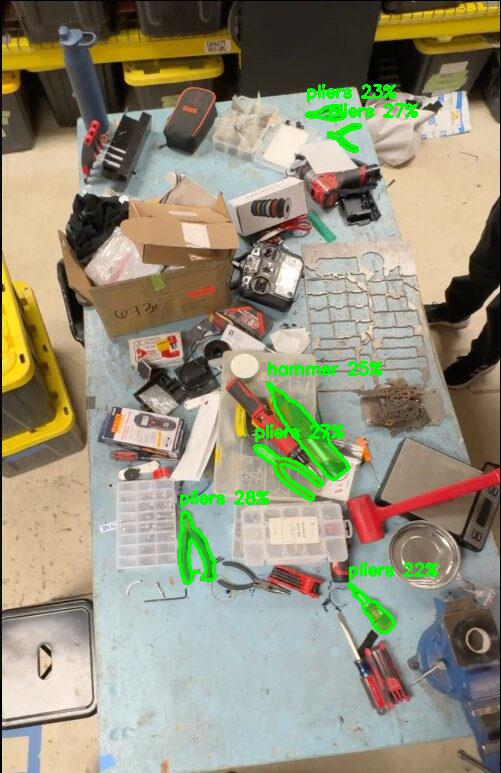
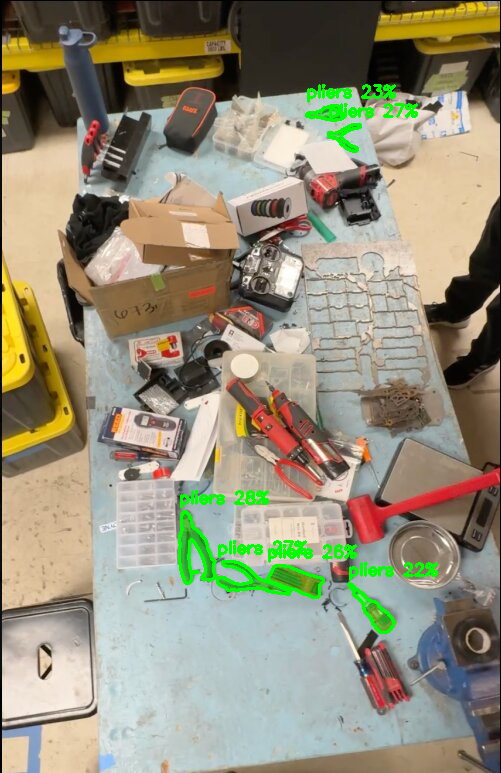
Voice-agent

Changed region(s): [[0.509, 0.4657, 0.7784, 0.652], [0.4192, 0.6831, 0.7186, 0.7762]]

diff --git a/voice_agent.py b/voice_agent.py
@@ -1,0 +1,250 @@
+import io
+import base64
+import socket
+import struct
+import numpy as np
+import sounddevice as sd
+import whisper
+import torch
+import cv2
+import modal
+from PIL import Image
+
+# ---------------------------------------------------------------------------
+# CONFIG — edit these to match your setup
+# ---------------------------------------------------------------------------
+
+TOOLS = [
+    "hammer", "wrench", "pliers", "screwdriver", "drill",
+    "saw", "chisel", "clamp", "tape measure", "level",
+]
+
+SAMPLE_RATE      = 16000   # Whisper expects 16kHz
+CHUNK_SAMPLES    = 512     # silero-vad minimum required chunk size at 16kHz
+
+SPEECH_THRESHOLD  = 0.65   # raised: reduces false triggers from background noise
+SILENCE_CHUNKS    = 20     # consecutive silent chunks before utterance ends (~600ms)
+MIN_SPEECH_CHUNKS = 25     # raised: require ~0.8s of speech before transcribing
+MAX_SPEECH_SEC    = 8      # hard cap — cuts runaway recordings
+
+PI_HOST = "192.168.50.232"
+PI_PORT = 9999
+
+# Set to a local image path to test without Pi/webcam (e.g. "test.jpg")
+# Set to None to use live camera
+TEST_IMAGE_PATH = "test.jpg"
+
+WHISPER_MODEL = "base"     # tiny / base / small — trade speed for accuracy
+
+DISPLAY_MS = 5000          # how long to show result image (ms)
+
+
+# ---------------------------------------------------------------------------
+# 1. Load models (called once at startup)
+# ---------------------------------------------------------------------------
+
+def load_models():
+    print("[startup] Loading silero-VAD...")
+    vad_model, _ = torch.hub.load(
+        repo_or_dir="snakers4/silero-vad",
+        model="silero_vad",
+        force_reload=False,
+    )
+    vad_model.eval()
+
+    print(f"[startup] Loading Whisper {WHISPER_MODEL}...")
+    whisper_model = whisper.load_model(WHISPER_MODEL)
+
+    print("[startup] Models ready. Listening...\n")
+    return vad_model, whisper_model
+
+
+# ---------------------------------------------------------------------------
+# 2. Listen — blocks until a complete utterance is captured
+# ---------------------------------------------------------------------------
+
+def listen_for_speech(vad_model, stream) -> np.ndarray:
+    """
+    Runs silero-VAD on mic chunks from an already-open stream.
+    Returns a float32 numpy array at 16kHz once the worker
+    stops speaking (SILENCE_CHUNKS of consecutive silence).
+    """
+    speech_buffer = []
+    speech_chunks  = 0
+    silence_chunks = 0
+    in_speech      = False
+
+    while True:
+        chunk, _ = stream.read(CHUNK_SAMPLES)
+        chunk_1d  = chunk[:, 0]                  # (512,) float32
+
+        chunk_tensor = torch.from_numpy(chunk_1d).unsqueeze(0)  # (1, 512)
+        with torch.no_grad():
+            confidence = vad_model(chunk_tensor, SAMPLE_RATE).item()
+
+        if confidence >= SPEECH_THRESHOLD:
+            in_speech      = True
+            silence_chunks = 0
+            speech_chunks += 1
+            speech_buffer.append(chunk_1d)
+
+            # Hard cap
+            if speech_chunks >= MAX_SPEECH_SEC * SAMPLE_RATE / CHUNK_SAMPLES:
+                break
+
+        elif in_speech:
+            silence_chunks += 1
+            speech_buffer.append(chunk_1d)   # include trailing silence for Whisper
+
+            if silence_chunks >= SILENCE_CHUNKS:
+                break                         # utterance ended
+
+    if speech_chunks < MIN_SPEECH_CHUNKS:
+        return None                               # too short — noise, not speech
+
+    return np.concatenate(speech_buffer)          # flat float32 array
+
+
+# ---------------------------------------------------------------------------
+# 3. Transcribe with Whisper
+# ---------------------------------------------------------------------------
+
+def transcribe(whisper_model, audio_buf: np.ndarray) -> str:
+    result = whisper_model.transcribe(
+        audio_buf,
+        fp16=False,
+        language="en",                          # stops random-language hallucinations
+        initial_prompt="where is my hammer, where is my wrench, where is my drill, find the screwdriver, locate the pliers",
+    )
+    return result["text"].strip().lower()
+
+
+# ---------------------------------------------------------------------------
+# 4. Extract tool name from transcript
+# ---------------------------------------------------------------------------
+
+def extract_tool(text: str):
+    """
+    Returns the first TOOLS entry found in the transcript, or None.
+    e.g. "where is my wrench" → "wrench"
+    """
+    for tool in TOOLS:
+        if tool in text:
+            return tool
+    return None
+
+
+# ---------------------------------------------------------------------------
+# 5. Grab a single frame from the Raspberry Pi TCP stream
+#    Falls back to local webcam if the Pi is not reachable.
+# ---------------------------------------------------------------------------
+
+def grab_frame() -> bytes:
+    # Test mode: use a local image file instead of any camera
+    if TEST_IMAGE_PATH:
+        with open(TEST_IMAGE_PATH, "rb") as f:
+            return f.read()
+
+    # Try Pi TCP stream first (same length-prefix protocol as compRasiCode/camStream.py)
+    try:
+        with socket.create_connection((PI_HOST, PI_PORT), timeout=2) as sock:
+            raw_len = _recvall(sock, 4)
+            msg_len = struct.unpack(">L", raw_len)[0]
+            img_bytes = _recvall(sock, msg_len)
+        return img_bytes
+    except Exception:
+        pass
+
+    # Fallback: local webcam
+    cap = cv2.VideoCapture(0)
+    ret, frame = cap.read()
+    cap.release()
+    if not ret:
+        raise RuntimeError("No camera available (Pi unreachable and no local webcam)")
+    _, buf = cv2.imencode(".jpg", frame)
+    return buf.tobytes()
+
+
+def _recvall(sock, n: int) -> bytes:
+    data = b""
+    while len(data) < n:
+        packet = sock.recv(n - len(data))
+        if not packet:
+            raise ConnectionError("Socket closed early")
+        data += packet
+    return data
+
+
+# ---------------------------------------------------------------------------
+# 6. Run Modal detection
+# ---------------------------------------------------------------------------
+
+def run_detection(tool: str, img_bytes: bytes) -> dict:
+    model = modal.Cls.from_name("detect-tools-clip", "DetectTools")()
+    return model.detect.remote([tool], img_bytes)
+
+
+# ---------------------------------------------------------------------------
+# 7. Display result image
+# ---------------------------------------------------------------------------
+
+def show_result(result: dict, tool: str):
+    if result.get("image") is None:
+        print(f"  No detection returned for '{tool}'")
+        return
+
+    img_bytes = base64.b64decode(result["image"])
+    pil_img   = Image.open(io.BytesIO(img_bytes)).convert("RGB")
+    frame     = cv2.cvtColor(np.array(pil_img), cv2.COLOR_RGB2BGR)
+
+    cv2.imwrite("result.png", frame)
+    print(f"  Saved → result.png")
+    cv2.imshow(f"Found: {tool}", frame)
+    cv2.waitKey(DISPLAY_MS)
+    cv2.destroyAllWindows()
+
+
+# ---------------------------------------------------------------------------
+# 8. Main loop
+# ---------------------------------------------------------------------------
+
+def main():
+    vad_model, whisper_model = load_models()
+
+    # Open mic stream once — keeps the device claimed and avoids
+    # Windows MME PortAudioError when reopening after Ctrl+C
+    with sd.InputStream(samplerate=SAMPLE_RATE, channels=1,
+                        dtype="float32", blocksize=CHUNK_SAMPLES) as stream:
+        while True:
+            print("[listening] Say something like 'where is my hammer'...")
+
+            audio_buf = listen_for_speech(vad_model, stream)
+            if audio_buf is None:
+                continue   # noise / too short, keep listening
+
+            text = transcribe(whisper_model, audio_buf)
+            print(f"[heard]     \"{text}\"")
+
+            tool = extract_tool(text)
+            if tool is None:
+                print("[skip]      No known tool found in transcript.\n")
+                continue
+
+            print(f"[tool]      {tool}")
+            print("[camera]    Grabbing frame...")
+            img_bytes = grab_frame()
+
+            print("[modal]     Running detection...")
+            result = run_detection(tool, img_bytes)
+
+            count = result.get("count", 0)
+            print(f"[result]    {count} detection(s)")
+            for d in result.get("detections", []):
+                print(f"            {d['label']}  CLIP {d['clip_score']:.0%}  DINO {d['dino_score']:.0%}")
+
+            show_result(result, tool)
+            print()
+
+
+if __name__ == "__main__":
+    main()
